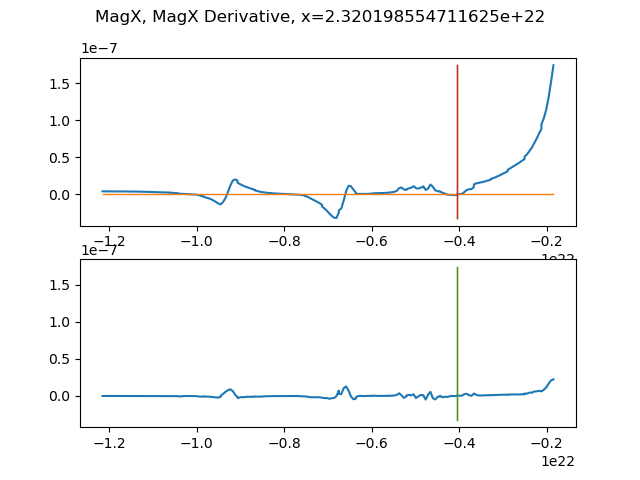
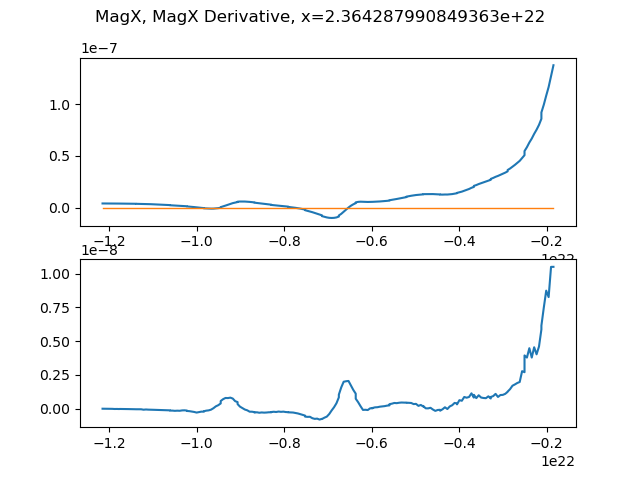
Working on debugging linear L/R slices. Still broken.

diff --git a/BubbleVelocity_SignFlip.py b/BubbleVelocity_SignFlip.py
@@ -39,6 +39,40 @@ sys.path.insert(0, pwd)
 import estimate_bubbleVelocity as est
 import hdf5_parser
 
+def removeDuplicates(arrayIN):
+    listOUT = []
+    for i in arrayIN:
+        if(listOUT.count(i)==0):
+            listOUT.append(i)        
+    arrayOUT = np.asarray(listOUT)
+    return arrayOUT
+    #END OF METHOD
+
+#Finds the number in the array closest to the target number.
+def closestNum(arrayIN, targetNum, removeDuplicates=True):
+    if(removeDuplicates): smallArray = removeDuplicates(arrayIN)
+    else: smallArray = arrayIN
+    
+    currentDev = float("inf")
+    result = float("inf")
+    #TODO: if you wanna have fun make this a binary search thing
+    for i in smallArray:
+        newDev = abs(targetNum-i)
+        if(newDev < currentDev):
+            currentDev =  newDev
+            result = i
+    if(result == float("inf")):
+        raise Exception("No match found")
+        
+    # #quasi-binary search [[BROKEN]]
+    # index = (int) (len(smallArray)/2)
+    # while(index > 1):
+    #     print(str(index) + ', ' + str(smallArray[index]))
+    #     if(targetNum < smallArray[index]):  index = (int) (index * 0.5)
+    #     else: index = index = index + (int) ((len(smallArray)-index) * 0.5)
+    # print("FINAL: " + str(index) + ', ' + str(smallArray[index]))
+    # return result
+    #END OF METHOD
 #%%
 out = hdf5_parser.setup(filename)
 
@@ -187,16 +221,18 @@ with open(pwd + '/bubble_velocity/signFlip.csv', 'w', newline='') as csvfile:
                          'expected Yvel': estVelocities[i]})
         
 #%%
-### Try a little left or right
+### Try a detection little left or right
+out = hdf5_parser.setup(filename)
 # lev = np.logspace(np.log10(out['densityArray'].min()), np.log10(out['densityArray'].max()), num=1000)
 # plt.tricontourf(out['posXarray'], out['posYarray'], out['densityArray'], locator=ticker.LogLocator(), levels = lev) #good for irregular Z values
 
-x = est.closestNum(out['posXarray'], 2.32838*pow(10, 22) - (5*dx)) #2.320198554 is good for col 12
+x = est.closestNum(out['posXarray'], 2.32838E22 - (5*dx)) #2.320198554 is good for col 12
 # x = est.closestNum(out['posXarray'], -4.211*(10**21) - (5*dx)) #col 2
-plt.clf()
+# plt.clf()
+
 for t in range(1, 10):
     print("("+ str(t) + ", " + str(x) +")")
-    TFselect = np.logical_and((out['posXarray'] == x), (out['posYarray']<ylim), (out['posYarray']>ymax))
+    TFselect = np.logical_and((out['posXarray'] == x), (out['posYarray']<ylim), (out['posYarray']>ymin))
     ySlice = out['posYarray'][TFselect]    
     magSlice = out['magXarray'][TFselect]
     zeroIndex = est.findSignFlips(magSlice)
@@ -209,19 +245,27 @@ for t in range(1, 10):
         if avgSlope > 5*(10**-11): zeroIndexTrimmed = np.append(zeroIndexTrimmed, index)
     zeroIndexTrimmed = np.asarray(zeroIndexTrimmed, dtype=int)
     
-    fig, axs = plt.subplots(2)
-    fig.suptitle('MagX, MagX Derivative, x='+str(x))
-    axs[0].plot(ySlice, magSlice)
-    axs[0].plot([max(ySlice), min(ySlice)], [0, 0], lw=1)
-    axs[1].plot(ySlice, magDerivative)
-    for y in ySlice[zeroIndexTrimmed]:
-        axs[0].plot([y, y], [np.min(magSlice), np.max(magSlice)], lw=1) #lines [x1, x2] [y1, y2]
-        axs[0].plot([y, y], [np.min(magSlice), np.max(magSlice)], lw=1)
-        axs[1].plot([y, y], [np.min(magSlice), np.max(magSlice)], lw=1) #lines [x1, x2] [y1, y2]
-        axs[1].plot([y, y], [np.min(magSlice), np.max(magSlice)], lw=1)
+    # fig, axs = plt.subplots(2)
+    # fig.suptitle('MagX, MagX Derivative, x='+str(x))
+    # axs[0].plot(ySlice, magSlice)
+    # axs[0].plot([max(ySlice), min(ySlice)], [0, 0], lw=1) #zero line
+    # axs[1].plot(ySlice, magDerivative)
+    # for y in ySlice[zeroIndexTrimmed]:
+    #     axs[0].plot([y, y], [np.min(magSlice), np.max(magSlice)], lw=1) #lines [x1, x2] [y1, y2]
+    #     axs[0].plot([y, y], [np.min(magSlice), np.max(magSlice)], lw=1)
+    #     axs[1].plot([y, y], [np.min(magSlice), np.max(magSlice)], lw=1) #lines [x1, x2] [y1, y2]
+    #     axs[1].plot([y, y], [np.min(magSlice), np.max(magSlice)], lw=1)
         
-    fig.savefig(pwd + "/bubble_velocity/Slice" + str(t))
     plt.close()
+    plt.title('x='+str(x))
+    plt.plot(ySlice, magSlice)
+    plt.plot([max(ySlice), min(ySlice)], [0, 0], lw=1) #zero line
+    for y in ySlice[zeroIndexTrimmed]:
+        plt.plot([y, y], [np.min(magSlice), np.max(magSlice)], lw=1) #lines [x1, x2] [y1, y2]
+        plt.plot([y, y], [np.min(magSlice), np.max(magSlice)], lw=1)
+    plt.show()
+    fig.savefig(pwd + "/bubble_velocity/Slice" + str(t))
+    
     
     #prep for next loop
     x = est.closestNum(out['posXarray'], x + dx)
@@ -306,3 +350,106 @@ for t in range(75, 85):
 
 # fig.show()
 # slc.display()
+
+#%%
+
+
+
+#####################
+# 2D BUBBLE DETECTION
+#####################
+
+
+#Columns are labeled 1-12 left to right up/down/up/down etc
+colXbounds = [(0, 0),                       #empty b/c I started at 1
+              (-2.41E+22,   -1.97E+22),     #1
+              (-2.21E+22,   -1.5E+22),      #2
+              (-1.97E+22,   -1.01E+22),     #3
+              (-1.11E22,    -6.28E+21),     #4
+              (-8.32E+21,   -1.65E+20),     #5
+              (-2.69E21,    2E+21),         #6
+              (-1.65E+20,   7.16E21),       #7
+              (2.62E21,     1.04E+22),      #8
+              (8.05E+21,    1.64E+22),      #9
+              (7.715E+21,   1.8516E+22),    #10
+              (1.29E+22,    2.2E+22),       #11
+              (2.1E+22,     2.5E+22)]       #12
+#column widths:
+# colWidth = [0,
+#  4.4e+21,
+#  7.01e+21,
+#  9.6e+21,
+#  4.82e+21,
+#  8.155e+21,
+#  4.69e+21,
+#  7.325e+21,
+#  7.78e+21,
+#  8.35e+21,
+#  1.08e+22,
+#  9.1e+21,
+#  4e+21]
+#%%
+### YT annotate lines to visualize where these lineplots are
+numlines = 15 #number of lines to the left of x
+ylim = -1.79040182984184e21
+bounds = {'xmin': 2.1*pow(10, 22), 'xmax': 2.5*pow(10, 22), 'ymin': float(min(ad['y']).value),'ymax': ylim}
+dsSelect = ad.include_inside('x', bounds['xmin'], bounds['xmax'])
+dsSelect = dsSelect.include_inside('y', bounds['ymin'], bounds['ymax'])  
+slc = yt.SlicePlot(ds, 'z', 'temp',  data_source=dsSelect,
+                   center=( np.sum([bounds['xmin'], bounds['xmax']])/2, np.sum([bounds['ymin'], bounds['ymax']])/2, 0))
+slc.set_width(max([ abs(bounds['xmax']-bounds['xmin']), abs(bounds['ymax']-bounds['ymin']) ]))
+shortX = removeDuplicates(out['posXarray']) #do this ONCE now to save time
+x = closestNum(shortX, 2.38*pow(10, 22) - (numlines*dx), removeDuplicates=False) #2.320198554 is good for col 12
+# slc.annotate_grids()
+# slc.annotate_cell_edges(line_width = 0.00001, alpha = 0.5)
+
+textx = x + (10**21)
+for t in range(1, numlines):
+    slc.annotate_line((x, -1.8*(10**21), 0), (x, -1.23*(10**22), 0), coord_system="data",  plot_args={"color": "blue"})
+    slc.annotate_marker((x, (-2-0.5*t)*(10**21), 0), coord_system="data", plot_args={"color": "red"})
+    slc.annotate_text((textx, (-2-0.5*t)*(10**21), 0), str(x), coord_system="data", text_args={"color": "red"})
+    x = closestNum(shortX, x + dx, removeDuplicates=False)
+slc.save(pwd + "/bubble_velocity_2D/line_annotations")
+slc.display()
+
+#%%
+
+#%%
+### Try a detection little left or right
+# lev = np.logspace(np.log10(out['densityArray'].min()), np.log10(out['densityArray'].max()), num=1000)
+# plt.tricontourf(out['posXarray'], out['posYarray'], out['densityArray'], locator=ticker.LogLocator(), levels = lev) #good for irregular Z values
+
+x = est.closestNum(out['posXarray'], 2.32838*pow(10, 22) - (5*dx)) #2.320198554 is good for col 12
+# x = est.closestNum(out['posXarray'], -4.211*(10**21) - (5*dx)) #col 2
+plt.clf()
+for t in range(1, 10):
+    print("("+ str(t) + ", " + str(x) +")")
+    TFselect = np.logical_and((out['posXarray'] == x), (out['posYarray']<ylim), (out['posYarray']>ymax))
+    ySlice = out['posYarray'][TFselect]    
+    magSlice = out['magXarray'][TFselect]
+    zeroIndex = est.findSignFlips(magSlice)
+    magDerivative = np.diff(magSlice, axis=0)
+    magDerivative = np.insert(magDerivative, 0, 0)
+    
+    zeroIndexTrimmed = []
+    for index in zeroIndex:
+        avgSlope = 0.5*(out['magXarray'][index-1]-out['magXarray'][index+1])
+        if avgSlope > 5*(10**-11): zeroIndexTrimmed = np.append(zeroIndexTrimmed, index)
+    zeroIndexTrimmed = np.asarray(zeroIndexTrimmed, dtype=int)
+    
+    fig, axs = plt.subplots(2)
+    fig.suptitle('MagX, MagX Derivative, x='+str(x))
+    axs[0].plot(ySlice, magSlice)
+    axs[0].plot([max(ySlice), min(ySlice)], [0, 0], lw=1)
+    axs[1].plot(ySlice, magDerivative)
+    for y in ySlice[zeroIndexTrimmed]:
+        axs[0].plot([y, y], [np.min(magSlice), np.max(magSlice)], lw=1) #lines [x1, x2] [y1, y2]
+        axs[0].plot([y, y], [np.min(magSlice), np.max(magSlice)], lw=1)
+        axs[1].plot([y, y], [np.min(magSlice), np.max(magSlice)], lw=1) #lines [x1, x2] [y1, y2]
+        axs[1].plot([y, y], [np.min(magSlice), np.max(magSlice)], lw=1)
+        
+    fig.savefig(pwd + "/bubble_velocity/Slice" + str(t))
+    plt.close()
+    
+    #prep for next loop
+    x = est.closestNum(out['posXarray'], x + dx)
